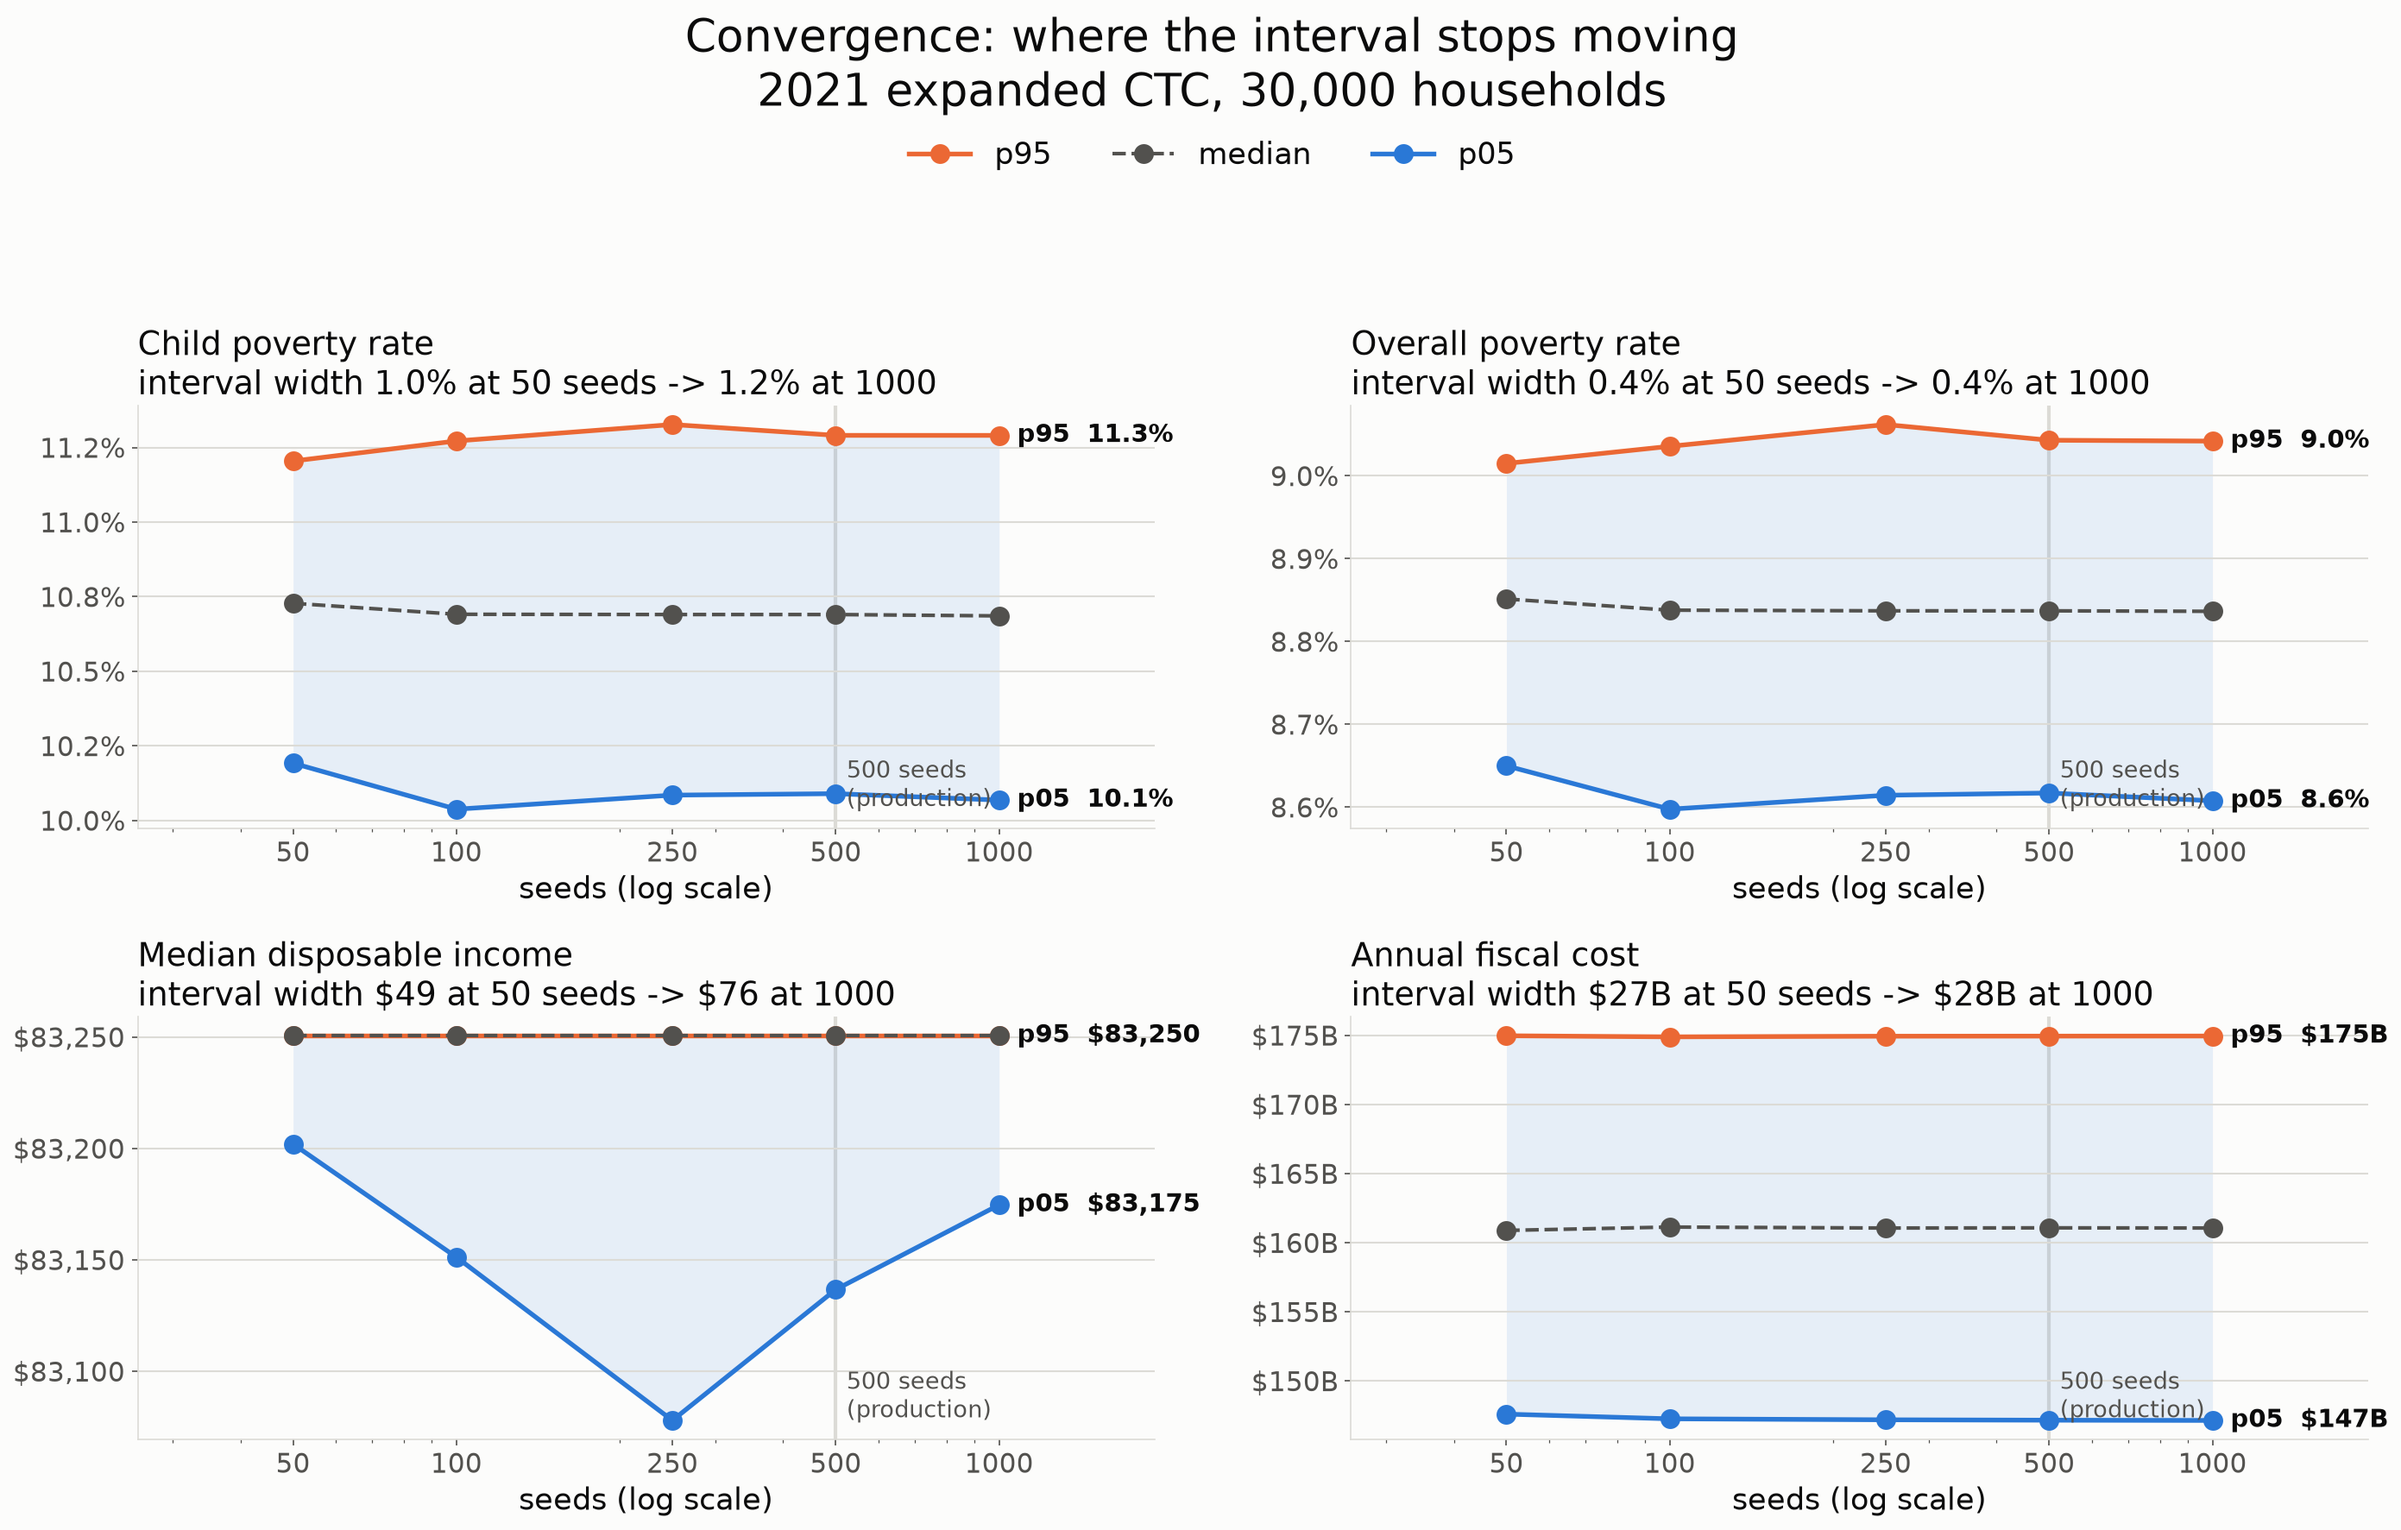
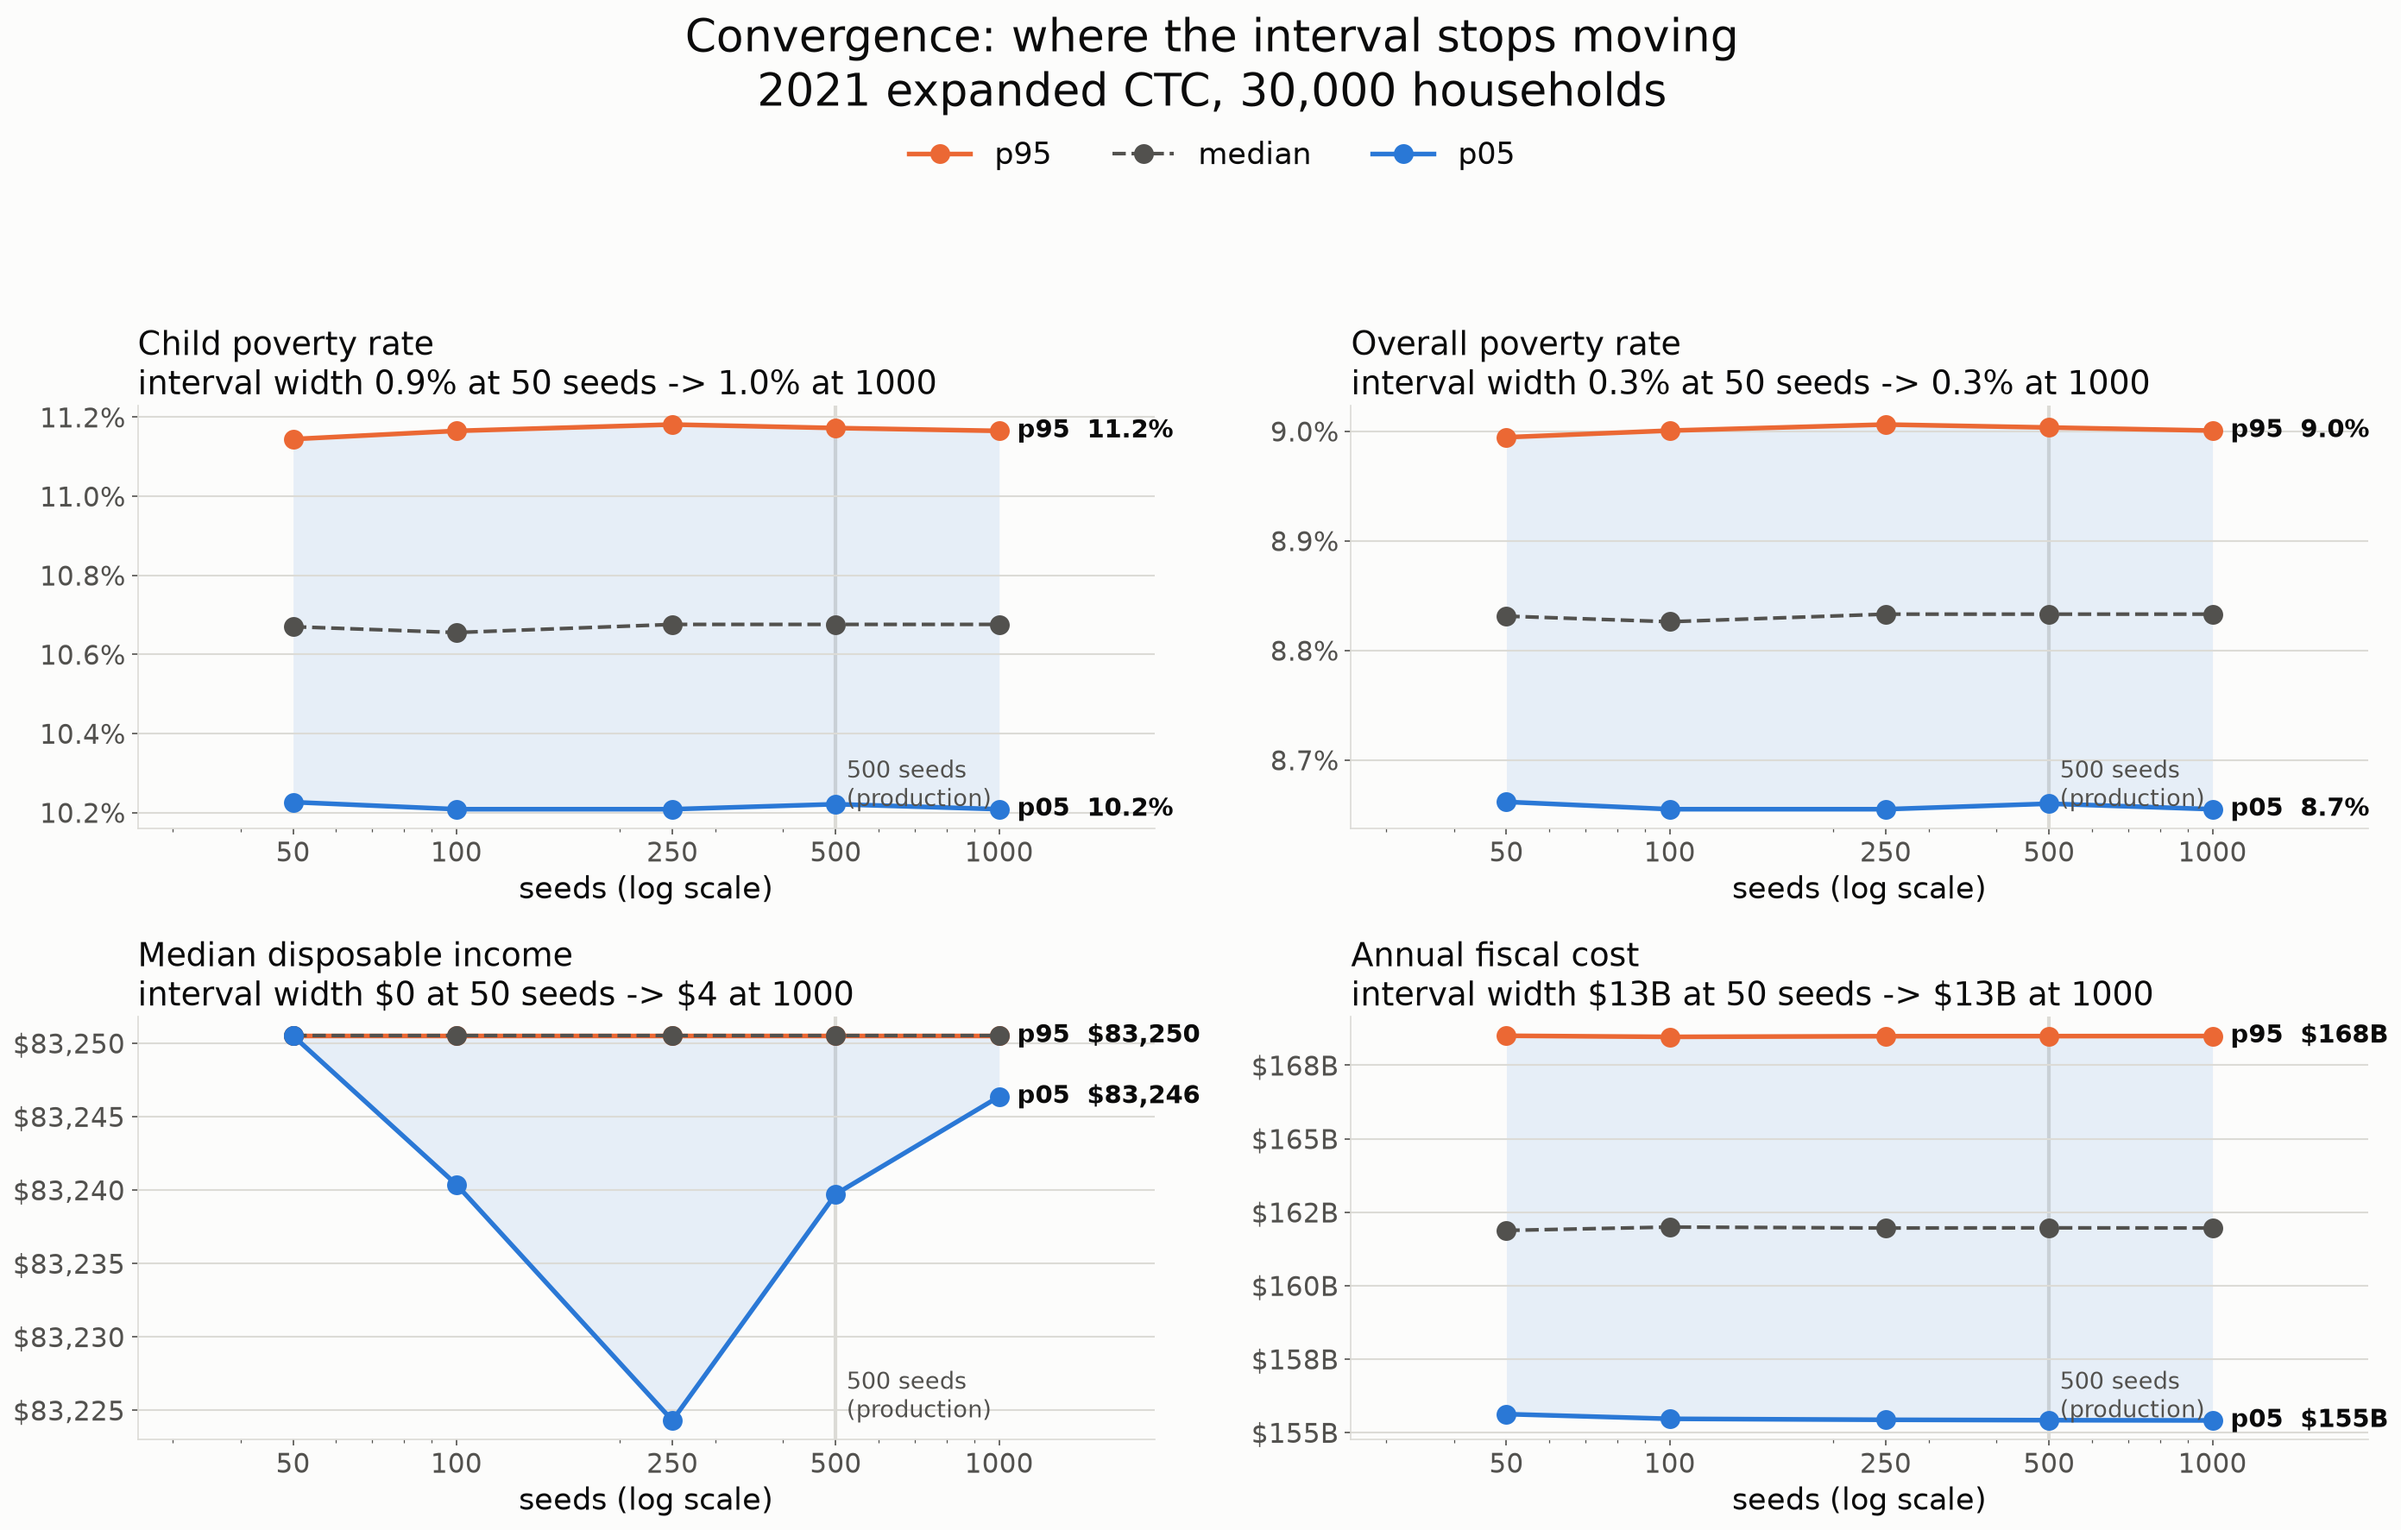
Regenerate convergence chart under sourced parameters; document method field
Convergence re-run with the literature-sourced parameter set. Intervals are
tighter across the board (child poverty band 1.2% -> 1.0%, fiscal cost
$28B -> $13B) because the sourced take-up range is narrower than the
pre-registered one. Still stable by ~100 seeds; 500 remains comfortable.

output_contract.md documents the new by_group "method" field and explains what
evidence_coverage means under MRP -- 1.0 where the model contains an
evidence-informed dimension, 0.0 where it does not. household_type sits at 0.0
because no source publishes a parents-vs-non-parents crosstab with a subgroup N,
so the dimension is excluded rather than imputed.

diff --git a/docs/output_contract.md b/docs/output_contract.md
@@ -96,6 +96,13 @@ sitting in cells backed by real survey data. A group at 0.12 coverage is not
 "12% supportive"; it means 88% of the group has no evidence behind it. Useful as
 a tooltip, dangerous as a headline.
 
+Under MRP this is 1.0 when the model contains a dimension informed by evidence
+and 0.0 when it does not. `household_type` groups currently sit at 0.0 — no
+source publishes a parents-vs-non-parents crosstab with a subgroup sample size,
+so that dimension is excluded from the model rather than imputed, and those
+groups report `insufficient_evidence`. Their material impact numbers are still
+fully valid; render them normally.
+
 Values of `evidence_status`:
 
 | value | meaning |
@@ -103,6 +110,13 @@ Values of `evidence_status`:
 | `"ok"` | `support` is a real `{median,p05,p95}` |
 | `"insufficient_evidence"` | `support` is `null`; show the text |
 | `"out_of_support"` | `support` is `null` because the whole policy is out of support — see state 3 |
+
+Each `by_group` entry also carries `"method"` — currently `"mrp"`, the
+hierarchical model in `model/mrp.py`. The older `"ladder"` path still exists and
+is used by the backtest for comparison, but is not what the demo reads. You do
+not need to branch on it; it is there so a number on screen can be traced to the
+method that produced it.
+
 
 ## State 3 — `in_support: false`
 
